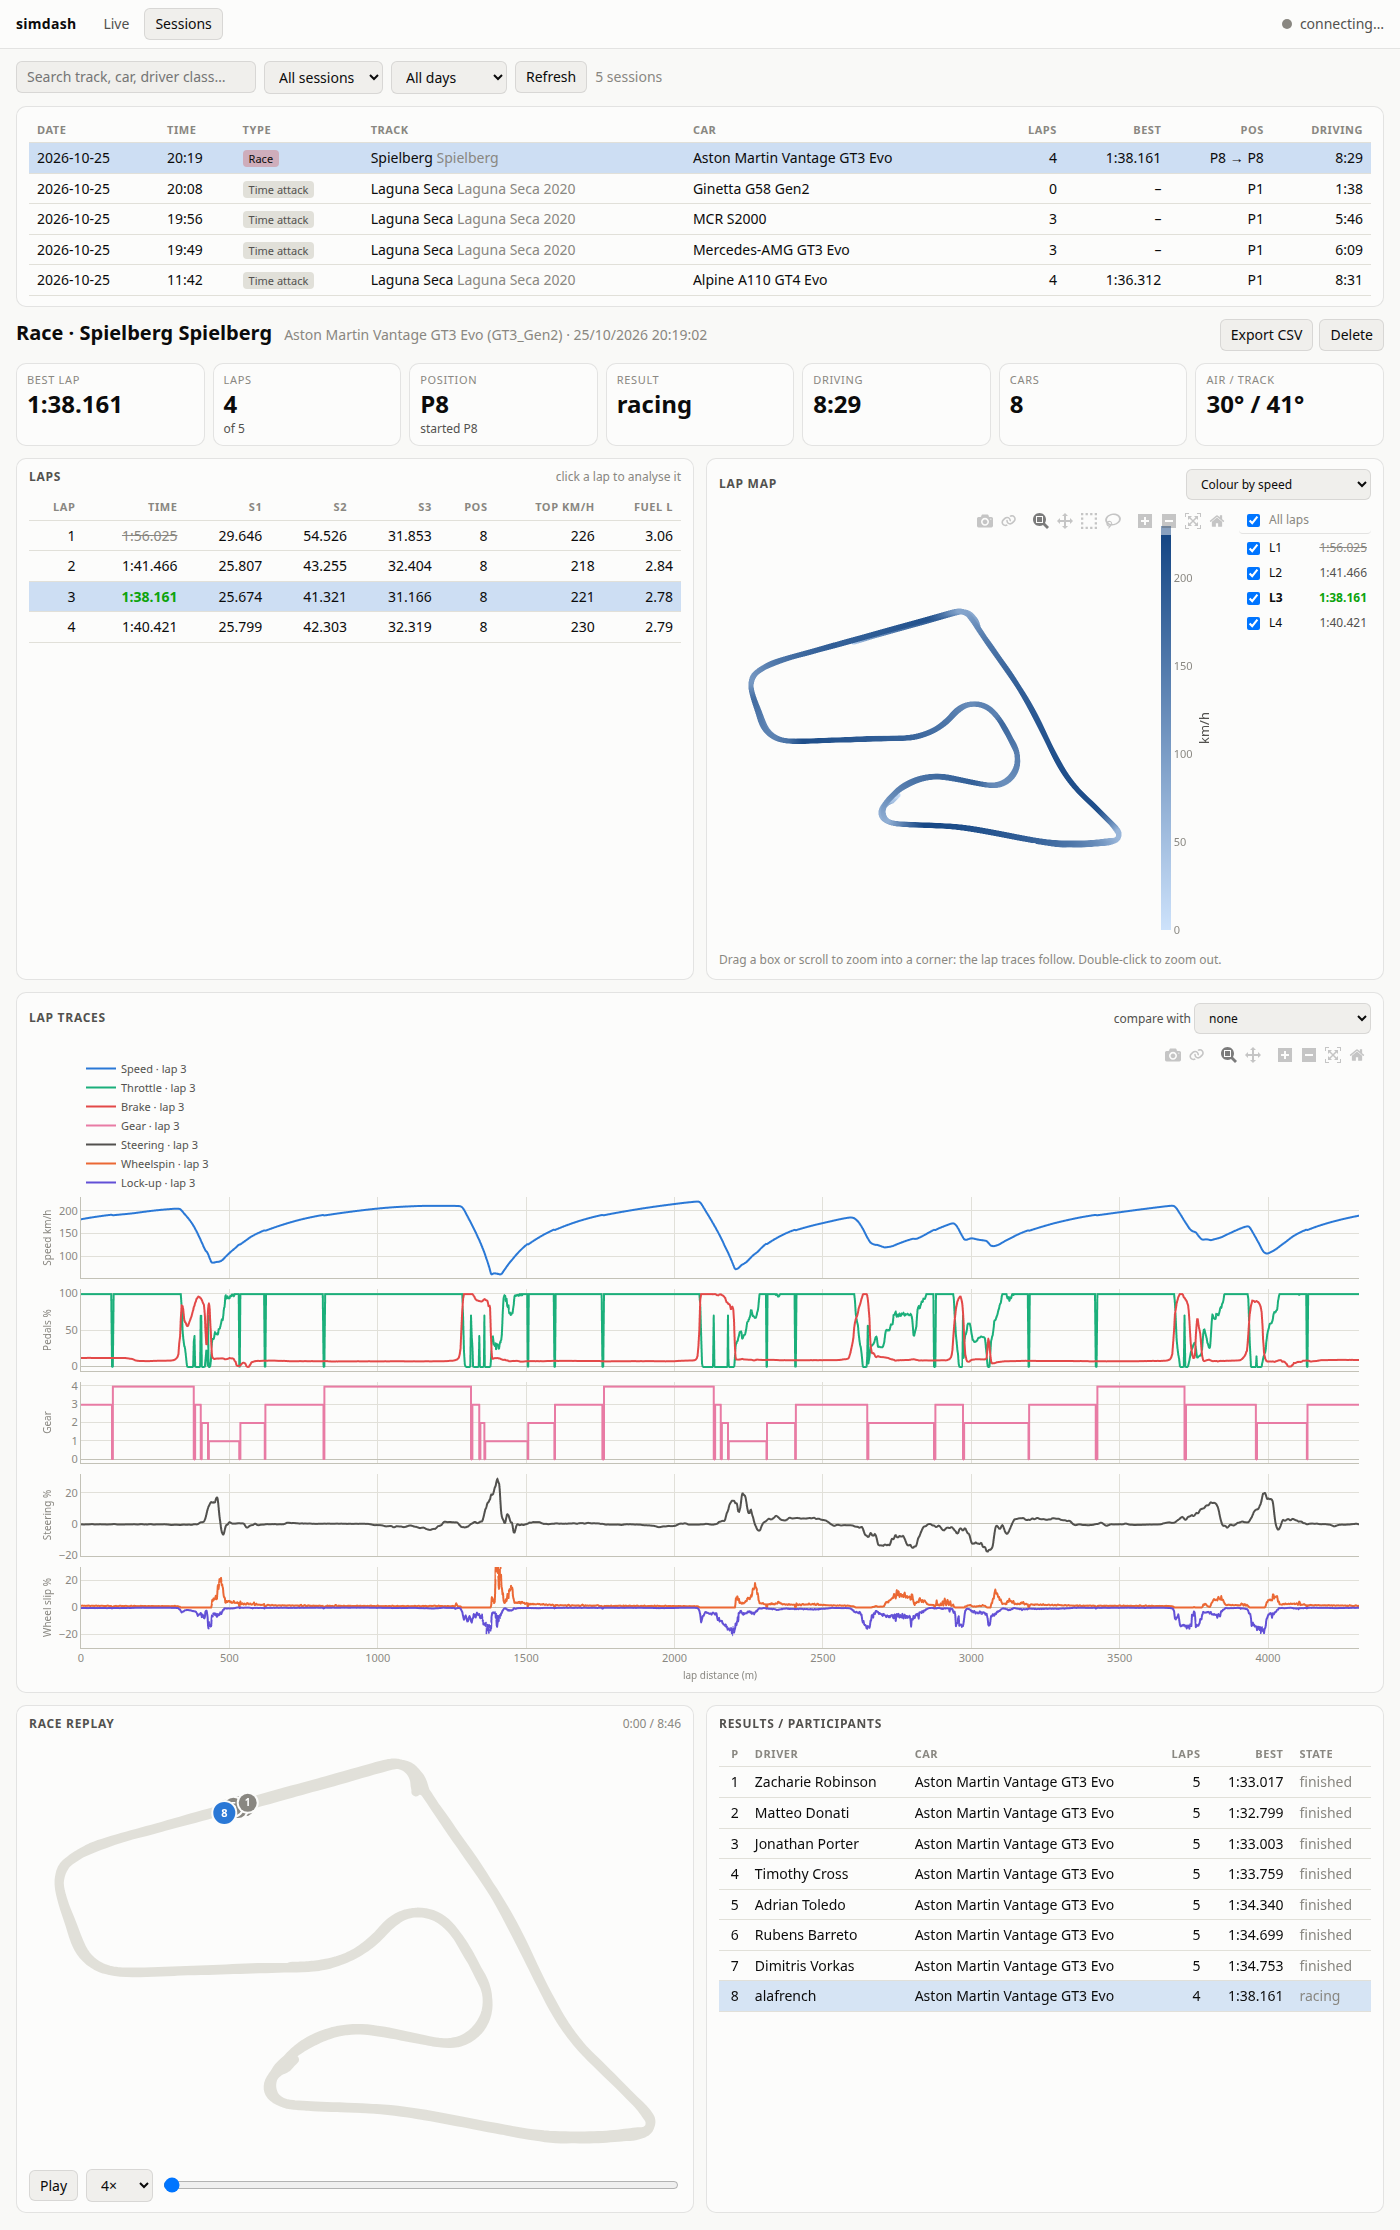
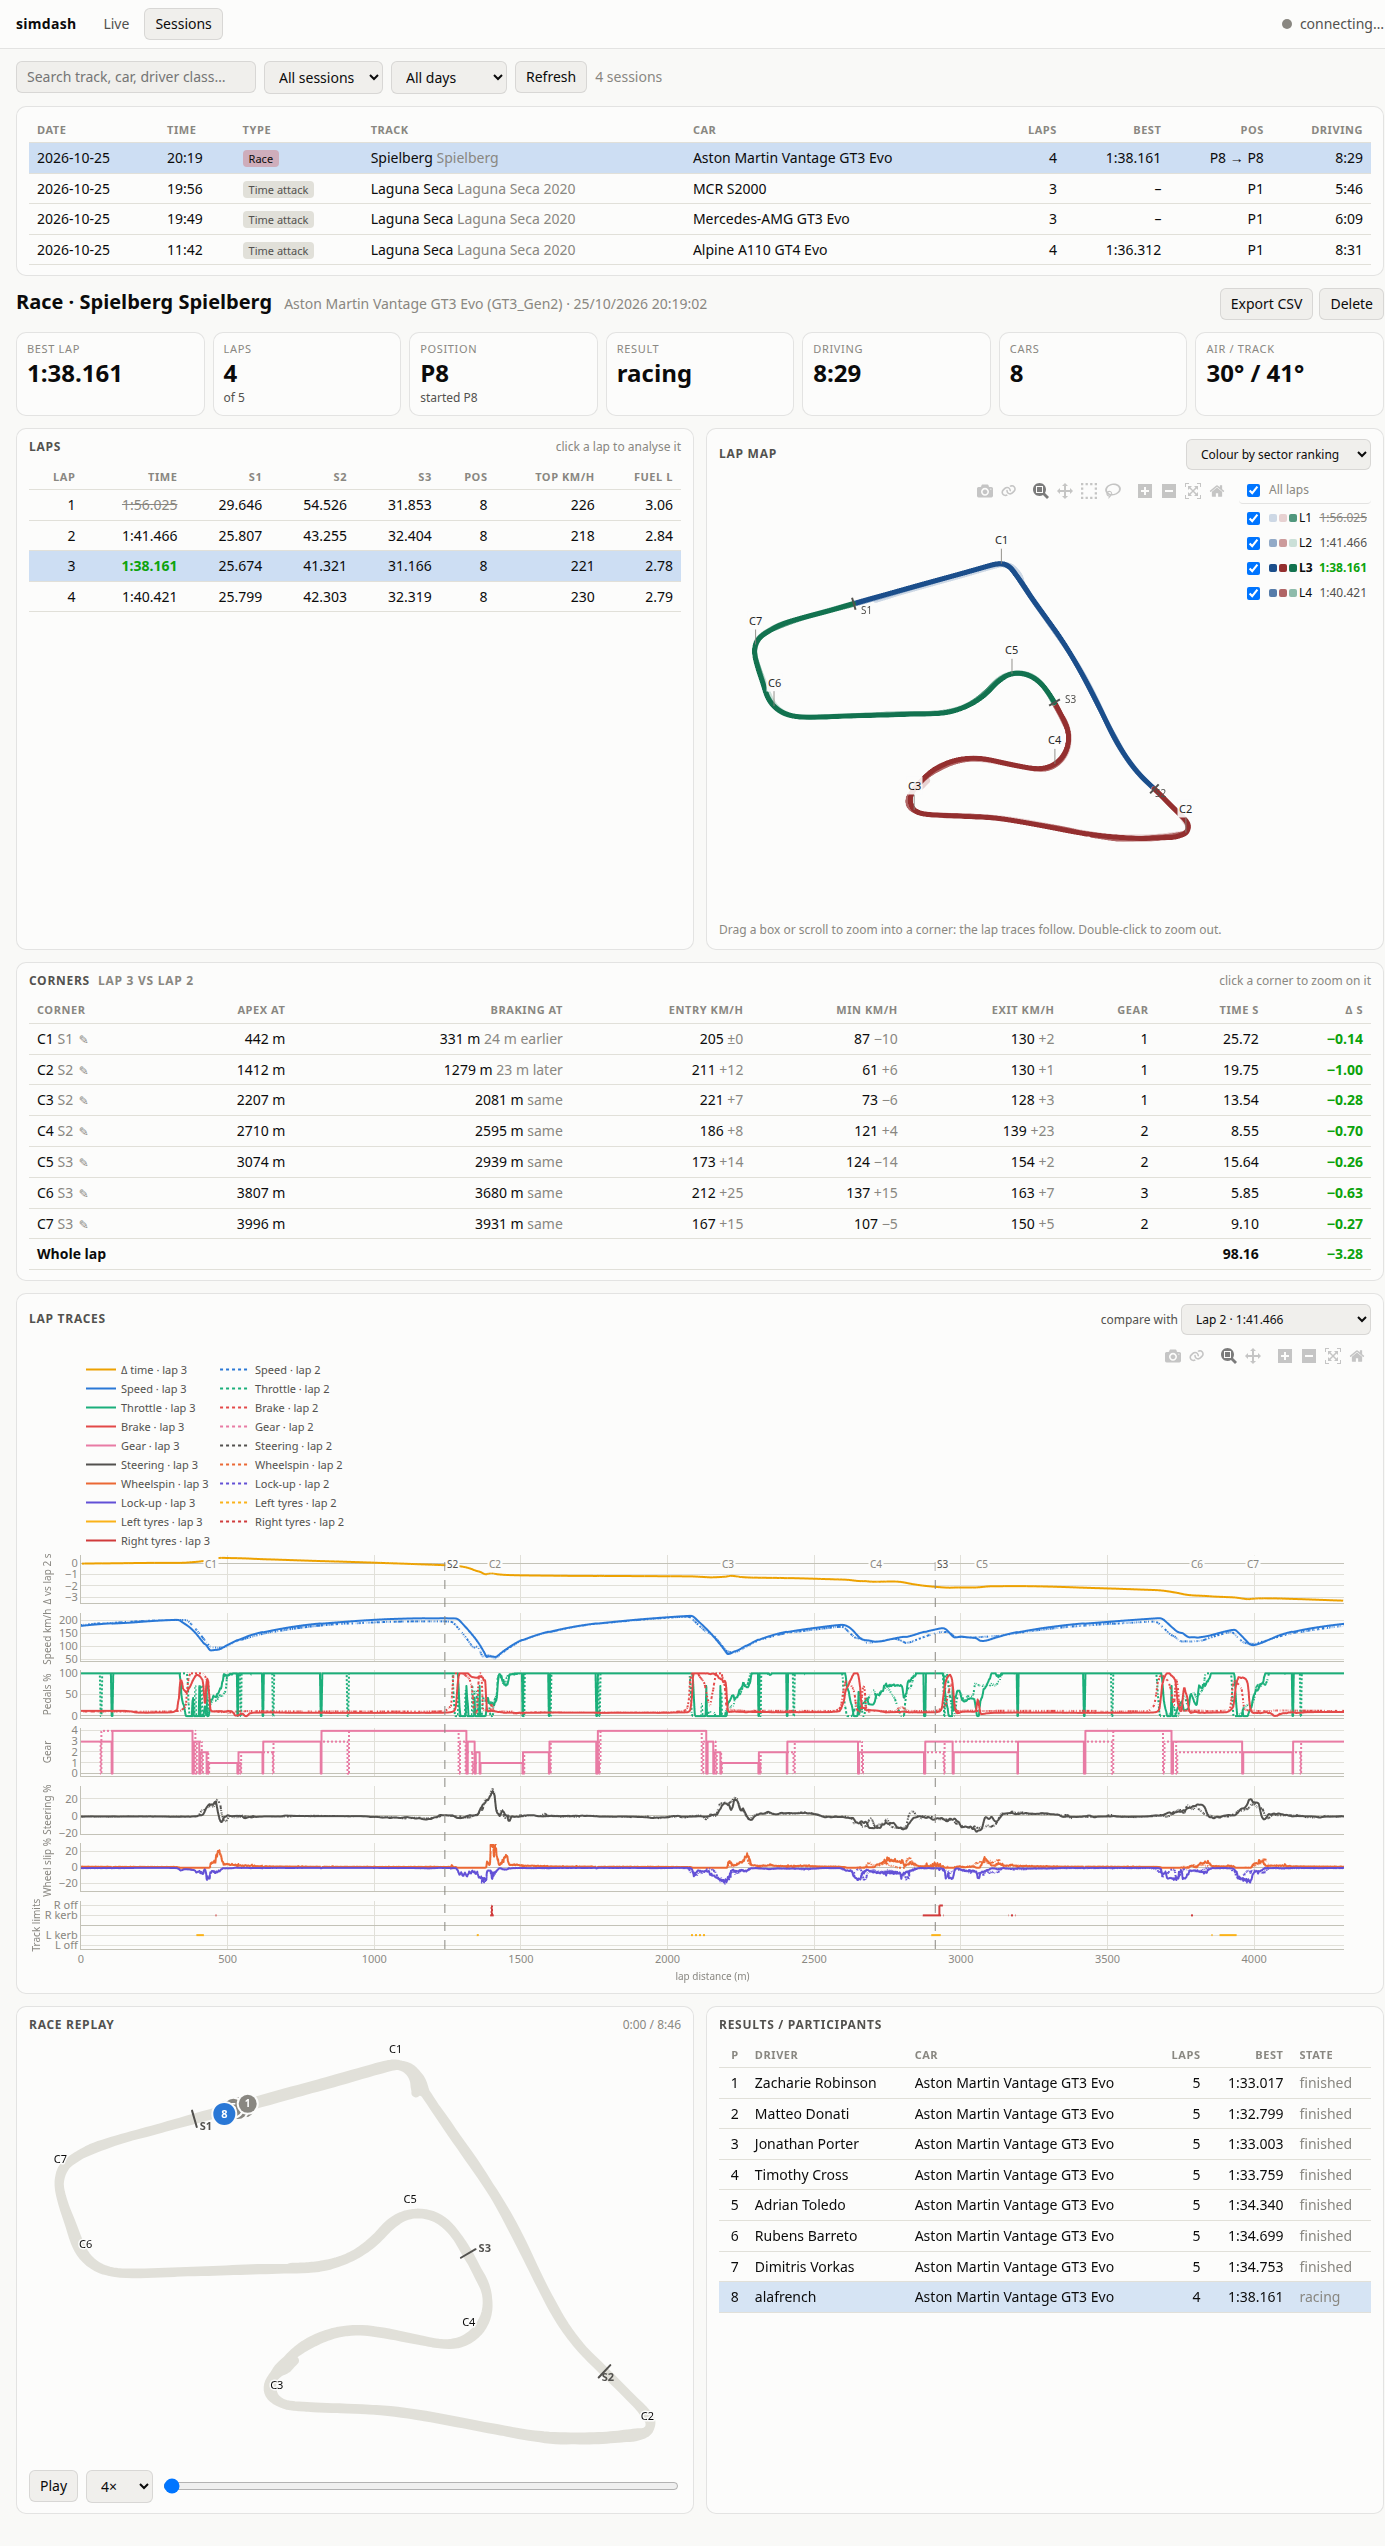
README: new screenshots of the corner table and live corner focus

diff --git a/README.md b/README.md
@@ -10,10 +10,10 @@ gets AMS2's telemetry out of Proton, and simdash records it and turns it into th
 pages below.
 
 ![Session analysis: laps, lap map coloured by speed, lap traces, race replay and results](docs/session.png)
-*Sessions: a recorded race at Spielberg, with lap times, the lap map, lap traces, the race replay and results.*
+*Sessions: a race at Spielberg, lap 3 analysed against lap 2: lap map coloured by sector ranking, corner table with time gained per corner, lap traces with the delta row and sector lines, race replay and results.*
 
 ![Live dashboard while driving](docs/live.png)
-*Live: what the dashboard shows while you are on track (here fed by the built-in fake game, `simdash.fake_ams2`).*
+*Live: the dashboard while on track, with the track map focused on one corner and each pass compared with the reference lap (here fed by the built-in fake game, `simdash.fake_ams2`).*
 
 > **About this project:** I have not written any of this code (yet). simdash was
 > built entirely through conversations with [Claude Code](https://claude.com/claude-code),
